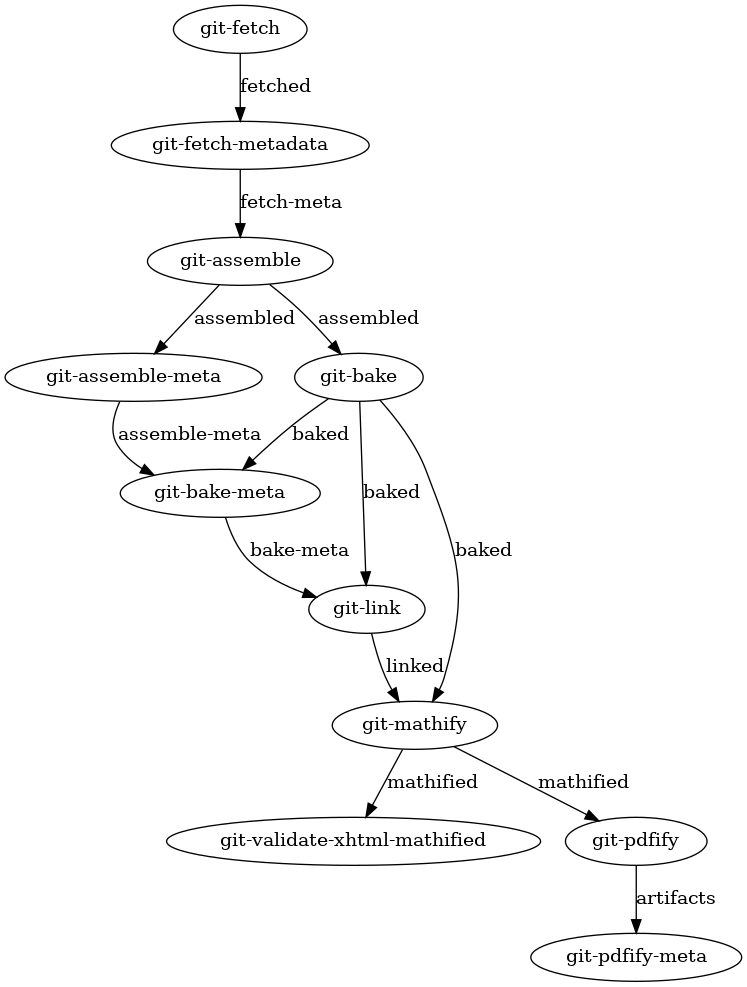
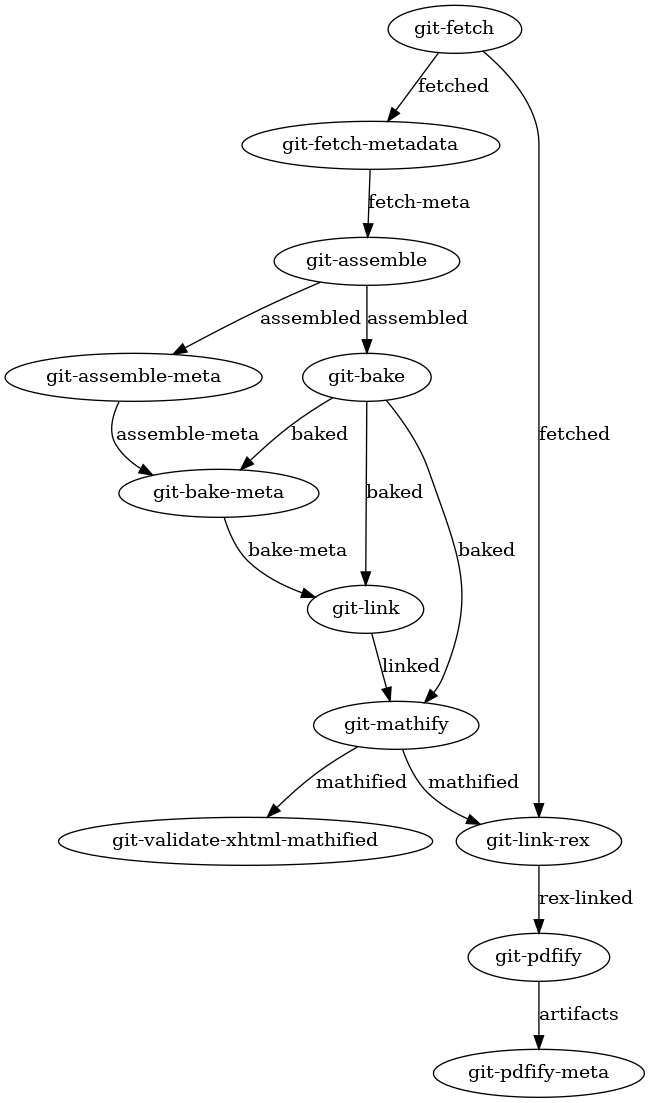
Upgrade output producer service. Adds rex-links (#8)
* match openstax/output-producer-service#371
* match openstax/output-producer-service#375
* merge openstax/output-producer-service#379

diff --git a/build-concourse/step-definitions.ts b/build-concourse/step-definitions.ts
@@ -58,7 +58,8 @@ set({name: 'git-bake-meta', inputs: [IO.BOOK, IO.ASSEMBLE_META, IO.BAKED], outpu
 set({name: 'git-validate-xhtml-mathified', inputs: [IO.BOOK, IO.MATHIFIED], outputs: [], env: {}})
 set({name: 'git-link', inputs: [IO.BOOK, IO.BAKED, IO.BAKE_META], outputs: [IO.LINKED], env: {ARG_OPT_ONLY_ONE_BOOK: false}})
 set({name: 'git-mathify', inputs: [IO.BOOK, IO.LINKED, IO.BAKED], outputs: [IO.MATHIFIED], env: {ARG_OPT_ONLY_ONE_BOOK: false}})
-set({name: 'git-pdfify', inputs: [IO.BOOK, IO.MATHIFIED], outputs: [IO.ARTIFACTS], env: {ARG_OPT_ONLY_ONE_BOOK: false}})
+set({name: 'git-link-rex', inputs: [IO.BOOK, IO.MATHIFIED, IO.FETCHED], outputs: [IO.REX_LINKED], env: {ARG_OPT_ONLY_ONE_BOOK: false}})
+set({name: 'git-pdfify', inputs: [IO.BOOK, IO.REX_LINKED], outputs: [IO.ARTIFACTS], env: {ARG_OPT_ONLY_ONE_BOOK: false}})
 set({name: 'git-pdfify-meta', inputs: [IO.BOOK, IO.ARTIFACTS], outputs: [IO.ARTIFACTS], env: {CORGI_ARTIFACTS_S3_BUCKET: true}})
 
 // GIT_WEB_STEPS
@@ -70,6 +71,7 @@ set({name: 'git-upload-book', inputs: [IO.BOOK, IO.JSONIFIED, IO.RESOURCES], out
 
 // ARCHIVE_PDF_STEPS
 set({name: 'archive-mathify', inputs: [IO.BOOK, IO.ARCHIVE_BOOK], outputs: [IO.ARCHIVE_BOOK], env: {}})
+set({name: 'archive-link-rex', inputs: [IO.BOOK, IO.ARCHIVE_BOOK, IO.ARCHIVE_FETCHED], outputs: [IO.ARCHIVE_BOOK], env: {}})
 set({name: 'archive-pdf', inputs: [IO.BOOK, IO.ARCHIVE_BOOK, IO.ARCHIVE_FETCHED], outputs: [IO.ARTIFACTS], env: {}})
 set({name: 'archive-pdf-metadata', inputs: [IO.BOOK, IO.ARTIFACTS], outputs: [IO.ARTIFACTS], env: {CORGI_ARTIFACTS_S3_BUCKET: true}})
 
@@ -112,6 +114,7 @@ export const CLI_GIT_PDF_STEPS = [
     get('git-link'),
     get('git-mathify'),
     get('git-validate-xhtml-mathified'),
+    get('git-link-rex'),
     get('git-pdfify'),
 ]
 export const GIT_PDF_STEPS = [
@@ -140,12 +143,14 @@ export const GIT_WEB_STEPS = [
 
 export const CLI_ARCHIVE_PDF_STEPS = [
     get('archive-fetch'),
+    get('archive-fetch-metadata'), // used by archive-link-rex
     // get('archive-validate-cnxml'),
     get('archive-assemble'),
     get('archive-link-extras'),
     get('archive-bake'),
     get('archive-mathify'),
     get('archive-validate-xhtml-mathified'),
+    get('archive-link-rex'),
     get('archive-pdf'),
 ]
 export const ARCHIVE_PDF_STEPS = [

diff --git a/build-concourse/util.ts b/build-concourse/util.ts
@@ -102,6 +102,7 @@ export enum IO {
     BAKE_META = 'bake-meta', // 'baked-metadata-group',
     LINKED = 'linked', // 'linked-single',
     MATHIFIED = 'mathified', // 'mathified-single',
+    REX_LINKED = 'rex-linked',
     DISASSEMBLED = 'disassembled', // 'disassembled-single',
     ARTIFACTS = 'artifacts', // 'artifacts-single',
     DISASSEMBLE_LINKED = 'disassemble-linked', // 'disassembled-linked-single',
@@ -221,7 +222,7 @@ const runWithStatusCheck = (env: KeyValue, resource: RESOURCES, step: Pipeline) 
             do: [
                 taskStatusCheck(env, {
                     resource: resource,
-                    processingStates: [Status.ASSIGNED, Status.PROCESSING],
+                    processingStates: [Status.QUEUED, Status.ASSIGNED, Status.PROCESSING],
                     completedStates: [Status.FAILED, Status.SUCCEEDED],
                     abortedStates: [Status.ABORTED]
                 })
